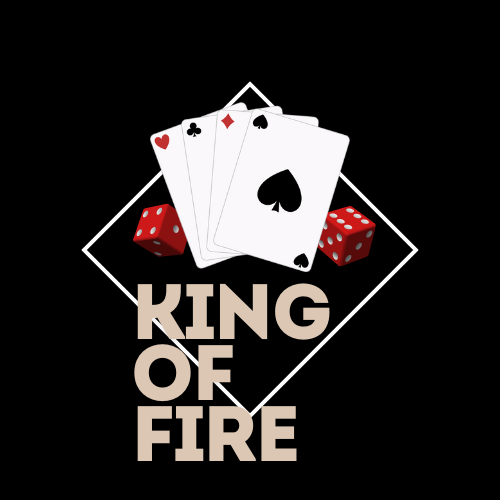
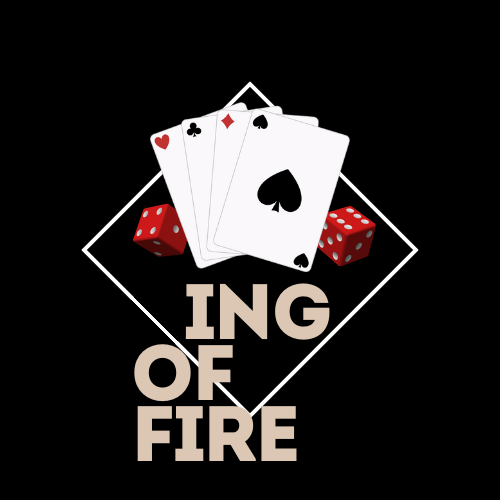
changing starting pic

Changed region(s): [[0.27, 0.57, 0.39, 0.69]]

diff --git a/src/app/game/game.component.ts b/src/app/game/game.component.ts
@@ -6,13 +6,12 @@ import {
   Firestore,
   collection,
   doc,
-  docData, 
-  updateDoc
+  docData,
+  updateDoc,
 } from '@angular/fire/firestore';
 import { ActivatedRoute, Router } from '@angular/router';
 import { GamestartService } from '../services/gamestart.service';
 import { EditPlayerComponent } from '../edit-player/edit-player.component';
-
 
 @Component({
   selector: 'app-game',
@@ -22,7 +21,6 @@ import { EditPlayerComponent } from '../edit-player/edit-player.component';
 export class GameComponent implements OnInit {
   game = new Game();
   avatar: number[] = [];
-
 
   gameCollection: any;
   gameId: string = '';
@@ -38,7 +36,6 @@ export class GameComponent implements OnInit {
     this.gameCollection = collection(this.firestore, 'games');
   }
 
-   
   ngOnInit(): void {
     this.route.params.subscribe((parameter) => {
       this.gameId = parameter['id'];
@@ -51,7 +48,7 @@ export class GameComponent implements OnInit {
         this.game.currentPlayer = game.currentPlayer || 0;
         this.game.stack = game.stack;
         this.game.avatar = game.avatar;
-        this.game.pickCardAnimation = game.pickCardAnimation
+        this.game.pickCardAnimation = game.pickCardAnimation;
         this.game.currentCard = game.currentCard;
       });
     });
@@ -62,44 +59,45 @@ export class GameComponent implements OnInit {
       this.game.currentCard = this.game.stack.pop() || '';
       this.game.pickCardAnimation = true;
       this.game.currentPlayer++;
-      this.game.currentPlayer = this.game.currentPlayer % this.game.players.length;
-     // console.log(this.game.stack.length)
-      this.saveGame()
+      this.game.currentPlayer =
+        this.game.currentPlayer % this.game.players.length;
+      // console.log(this.game.stack.length)
+      this.saveGame();
 
       setTimeout(() => {
         this.game.playedCard.push(this.game.currentCard);
         this.game.pickCardAnimation = false;
-        if (this.game.stack.length === 0){
-        
-          this.endGame()
+
+        if (this.game.stack.length === 0) {
+          this.endGame();
         }
-        this.saveGame(); // Save the game after taking a card
+        this.saveGame();
       }, 1500);
     }
   }
 
   newGame() {
-    this.game = new Game(); 
-    this.saveGame()
+    this.game = new Game();
+    this.saveGame();
   }
 
-  endGame(){
-    this.game.gameOver = true
-    this.saveGame()
-    console.log(this.game.gameOver, 'game over')
+  endGame() {
+    this.game.gameOver = true;
+    this.saveGame();
+    console.log(this.game.gameOver, 'game over');
   }
 
   saveGame() {
     return updateDoc(this.gameDoc, this.game.toJson());
   }
 
-  restartGame(){
-    this.gameStart.startGame()
-    this.game = new Game()
+  restartGame() {
+    this.gameStart.startGame();
+    this.game = new Game();
   }
-  
-  backToStartScreen(){
-    this.router.navigateByUrl('')
+
+  backToStartScreen() {
+    this.router.navigateByUrl('');
   }
 
   editPlayer(playerId: number) {
@@ -107,16 +105,16 @@ export class GameComponent implements OnInit {
     const dialogRef = this.dialog.open(EditPlayerComponent, {
       data: {
         name: this.game.players[playerId],
-        avatar: this.game.avatar[playerId]
-      }
+        avatar: this.game.avatar[playerId],
+      },
     });
-  
+
     dialogRef.afterClosed().subscribe((result) => {
       console.log('After close dialog', result);
       if (result) {
-        if(result === 'DELETE'){
-          this.game.players.splice(playerId, 1)
-          this.game.avatar.splice(playerId, 1)
+        if (result === 'DELETE') {
+          this.game.players.splice(playerId, 1);
+          this.game.avatar.splice(playerId, 1);
         } else {
           if (result.name !== '') {
             this.game.players[playerId] = result.name;
@@ -125,16 +123,12 @@ export class GameComponent implements OnInit {
             this.game.avatar[playerId] = result.avatar;
           }
         }
-        
+
         this.saveGame();
       }
-      
     });
   }
 
-
-
-  
   openDialog(): void {
     const dialogRef = this.dialog.open(DialogAddPlayerComponent);
 
@@ -142,7 +136,7 @@ export class GameComponent implements OnInit {
       if (result && result.name.length > 0) {
         this.game.players.push(result.name);
         this.game.avatar.push(result.avatar);
-        this.saveGame(); 
+        this.saveGame();
       }
     });
   }

diff --git a/src/app/game/game.component.html b/src/app/game/game.component.html
@@ -51,18 +51,21 @@
       src="./../../assets/cards/{{ game.currentCard }}.png"
     />
   </div>
-  <div class="game-over" *ngIf="game.gameOver">
-    <h1 style="font-family: 'Lobster'; color: black">Game over</h1>
-    <p>Play again?</p>
-    <div>
-      <button class="yes-button" (click)="restartGame()">Yes</button>
-      <button class="no-button" (click)="backToStartScreen()">No</button>
-    </div>
-  </div>
-</div>
+ 
 
 <button mat-fab color="primary" class="btn-add" (click)="openDialog()">
   <mat-icon>add</mat-icon>
 </button>
 
 <app-game-info [card]="game.currentCard" class="pin-bottom"></app-game-info>
+
+ 
+<div class="game-over" *ngIf="game.gameOver">
+  <h1 style="font-family: 'Lobster'; color: black">Game over</h1>
+  <p>Play again?</p>
+  <div>
+    <button class="yes-button" (click)="restartGame()">Yes</button>
+    <button class="no-button" (click)="backToStartScreen()">No</button>
+  </div>
+</div>
+</div>

diff --git a/src/app/start-screen/start-screen.component.scss b/src/app/start-screen/start-screen.component.scss
@@ -8,7 +8,10 @@
   justify-content: center;
 
   .start-label {
-    position: absolute;
+    display: flex;
+    align-items: center;
+    justify-content: center;
+    flex-direction: column;
 
     img {
       width: 100%;
@@ -17,10 +20,7 @@
     p {
       font-family: "Wisper";
       color: red;
-      position: absolute;
-      top: 72%;
-      left: 51%;
-      width: 100%;
+     margin-top: 40px;
       font-size: 7vw;
       font-weight: 600;
       cursor: pointer;
@@ -43,6 +43,9 @@
     }
     
     @media (max-width: 1000px){
+      img{
+        width: 70%;
+      }
       p{
         font-size: 12vw;
       }

diff --git a/src/app/start-screen/start-screen.component.html b/src/app/start-screen/start-screen.component.html
@@ -1,6 +1,6 @@
 <div class="start-screen">
   <div class="start-label">
-    <img src="./../../assets/start-screen-img.png" />
+    <img src="./../../assets/ring-of-fire-start.png" />
    
       <p (click)="startGame()">Play now!</p>
   

diff --git a/src/app/edit-player/edit-player.component.scss b/src/app/edit-player/edit-player.component.scss
@@ -11,6 +11,4 @@ img{
         
     }
 }
-.delete-btn{
-    
-}
+
